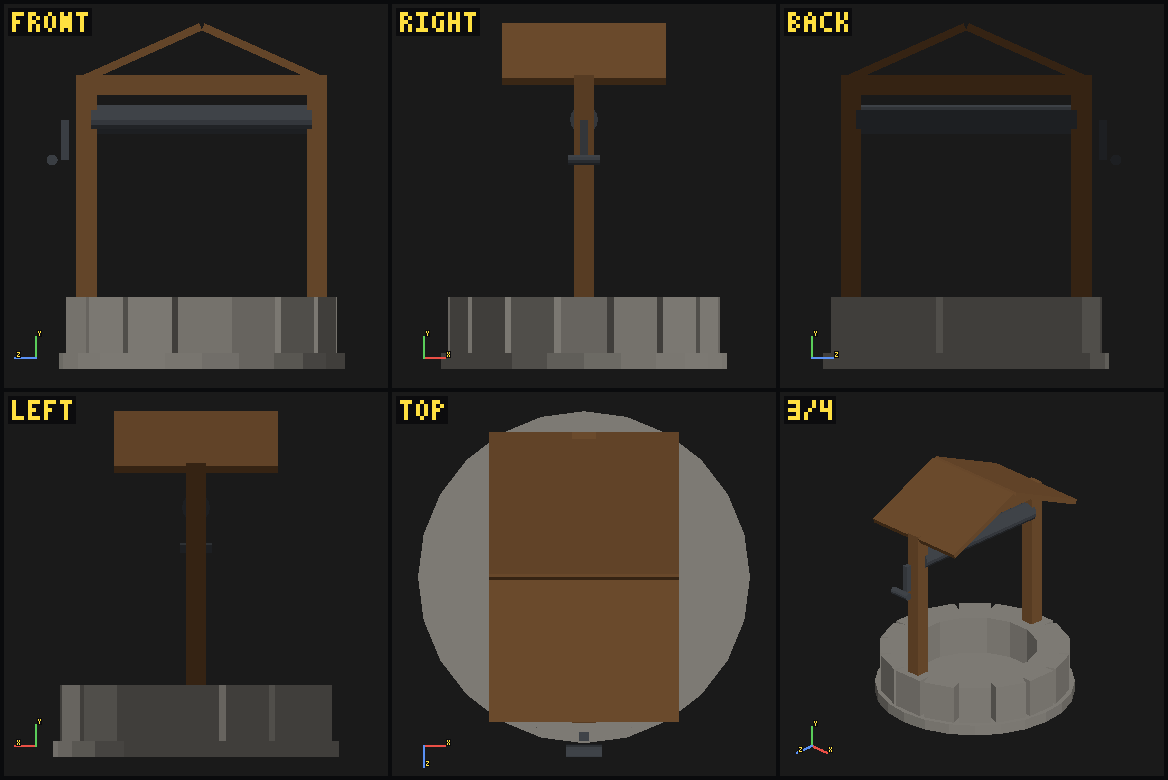
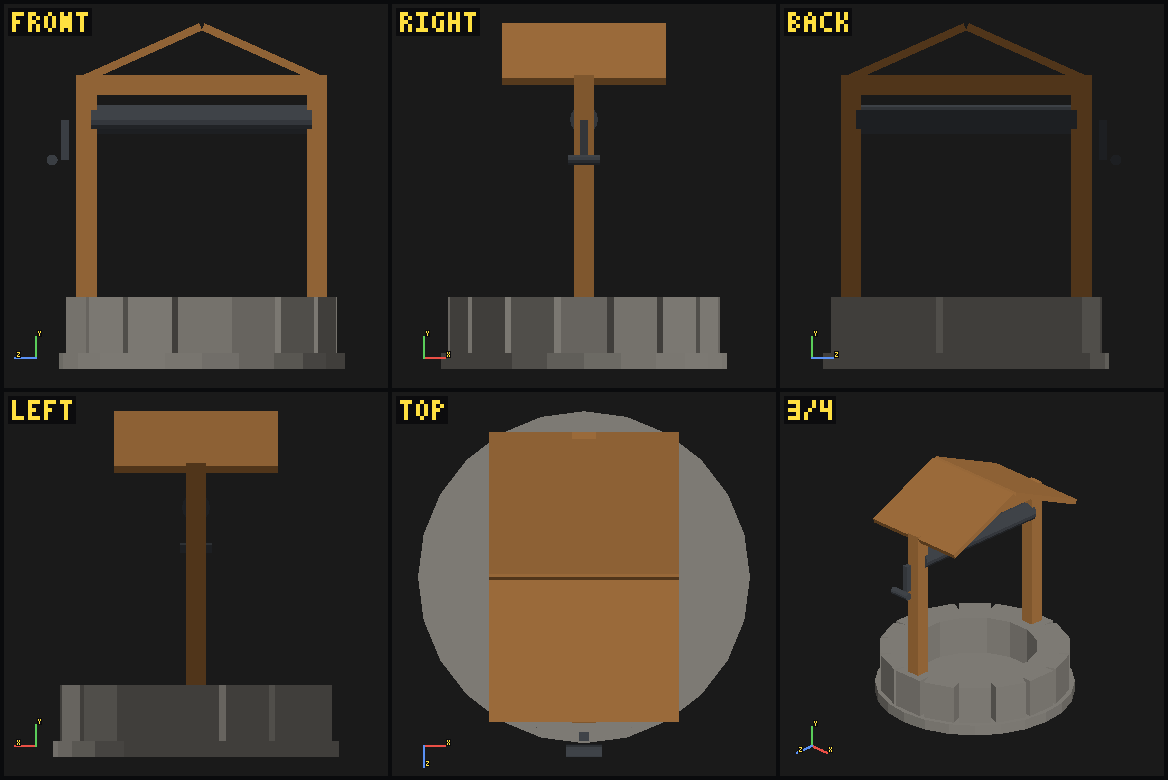
fix: give the hero asset a consistent material story
The well's stone carried a full albedo/normal/ARM stack while its wood was a
bare baseColor, so the roof and posts rendered as flat orange plastic beside
detailed brick. That undercut the README's own argument: half the hero showed
no material information even on the GPU.

Binds the weathered-planks stack to the wood. Two things learned by looking at
the render rather than reasoning about it:

- The recipe multiplies baseColor into the albedo, so the existing dark brown
  tint crushed the planks to near-black in the flat orthographic cells. The
  tint is gone; the map carries the colour.
- The rusted-metal stack on the windlass read as a glowing red bar on a part
  that thin, which was worse than the flat metal it replaced. Iron stays
  untextured, with a comment saying why, because not every surface needs a map.

Also regenerates the CPU/GPU comparison, which is now a much stronger case:
both the brick and the planks are absent on the CPU, where before only the
stone made the point.

diff --git a/examples/well.kiln.js b/examples/well.kiln.js
@@ -15,9 +15,24 @@ async function build() {
       metallicRoughness: 'kiln.texture.brick-wall-arm.v1',
     },
   });
+  // Every material carries a full albedo/normal/ARM stack, deliberately. A flat
+  // baseColor here would render as plastic next to the textured curb -- and it
+  // would undercut the point the contact sheet is making, since half the asset
+  // would show no material information even on the GPU.
+  // No baseColor tint on the textured materials: the recipe multiplies the tint
+  // into the albedo, so a dark brown here crushes the plank texture to near-black
+  // in the flat orthographic cells. Let the map carry the colour.
   const wood = await materialRecipe('kiln.material.wood.v1', {
-    baseColor: '#6a4a2c',
+    textureResources: {
+      baseColor: 'kiln.texture.weathered-planks-albedo.v1',
+      normal: 'kiln.texture.weathered-planks-normal.v1',
+      metallicRoughness: 'kiln.texture.weathered-planks-arm.v1',
+    },
   });
+  // Iron stays untextured on purpose. The rusted-metal stack was tried here and
+  // read as a glowing red bar on a part this thin -- worse than the flat metal it
+  // replaced. Not every surface needs a map; the material story is carried by the
+  // stone and the planks, and forcing a texture onto the windlass hurt the sheet.
   const iron = await materialRecipe('kiln.material.painted-metal.v1', {
     baseColor: '#3f4348',
     roughness: 0.42,

diff --git a/README.md b/README.md
@@ -86,10 +86,11 @@ The same program — the well above — rendered both ways:
 |---|---|
 | ![Well rendered flat-shaded, brickwork invisible](examples/well-cpu.png) | ![Same well with brick texture and normal relief visible](examples/well-gpu.png) |
 
-Geometry is equally legible in both: silhouette, proportion, orientation, part contact. But the
-brick curb is **flat grey** on the CPU. Not dimmer — *absent*. The albedo, normal, and ARM maps that
-make it stone simply do not exist in a flat-shaded render, and neither does the metal on the
-windlass.
+Geometry is equally legible in both: silhouette, proportion, orientation, part contact. But on the
+CPU the brick curb is **flat grey** and the roof is **flat orange**. Not dimmer — *absent*. The
+albedo, normal, and ARM maps that make one stone and the other weathered planks simply do not exist
+in a flat-shaded render. Every material cue an artist would judge is gone, while every geometric one
+survives.
 
 **If your assets have textures or metal, use the GPU.** That is most real assets, and it is why
 `auto` reaches for a GPU first. The CPU rasterizer is the floor that guarantees the loop runs
